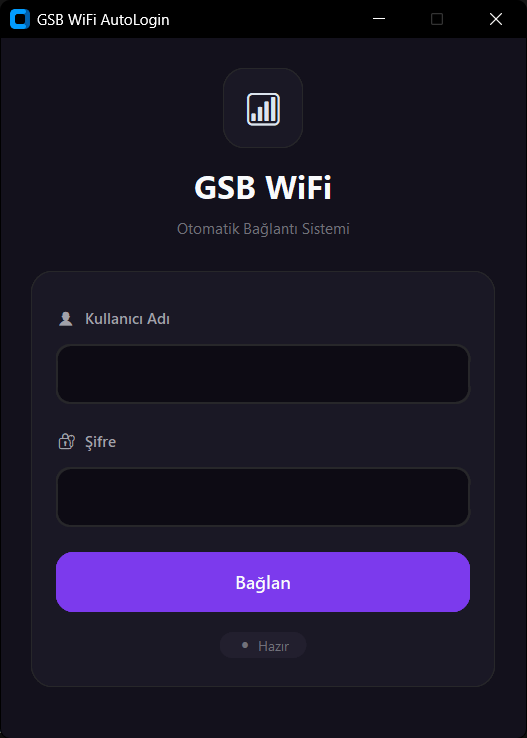
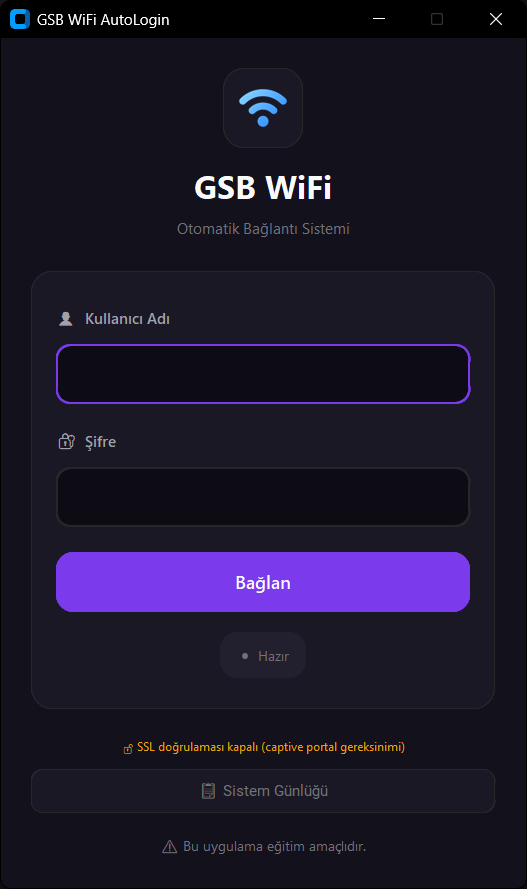
v1.0.0

diff --git a/src/config.py b/src/config.py
@@ -29,8 +29,12 @@ def _asset_yolu(dosya: str) -> Path:
     p = exe_dir / dosya
     if p.exists():
         return p
-    # Dev: kaynak dizin
-    return Path(__file__).resolve().parent / dosya
+    # Dev: once src/ altinda, sonra proje kokunde ara
+    src_dir = Path(__file__).resolve().parent
+    p = src_dir / dosya
+    if p.exists():
+        return p
+    return src_dir.parent / dosya
 
 # Versiyon - Tek kaynak
 __version__ = "1.0.0"
@@ -41,7 +45,7 @@ CIKIS_URL = "https://wifi.gsb.gov.tr/cikisSon.html?logout=1"
 
 # Dosya yollari
 AYAR_DOSYASI = Path(__file__).with_name("user_config.json")
-WIFI_IMG_YOLU = _asset_yolu("wifi.png")
+WIFI_IMG_YOLU = _asset_yolu("wifi.ico")
 
 # Ag ayarlari
 TIMEOUT = 15

diff --git a/src/ui/app.py b/src/ui/app.py
@@ -8,7 +8,6 @@ import time
 import requests
 import customtkinter as ctk
 from tkinter import messagebox
-from PIL import Image, ImageTk
 
 from config import (
     GIRIS_URL,
@@ -42,9 +41,7 @@ class Uygulama:
 
         # Pencere ikonu (taskbar + sol ust kose)
         try:
-            _img = Image.open(WIFI_IMG_YOLU)
-            self._icon_photo = ImageTk.PhotoImage(_img)
-            self.ana.iconphoto(True, self._icon_photo)
+            self.ana.iconbitmap(str(WIFI_IMG_YOLU))
         except Exception:
             pass
 
